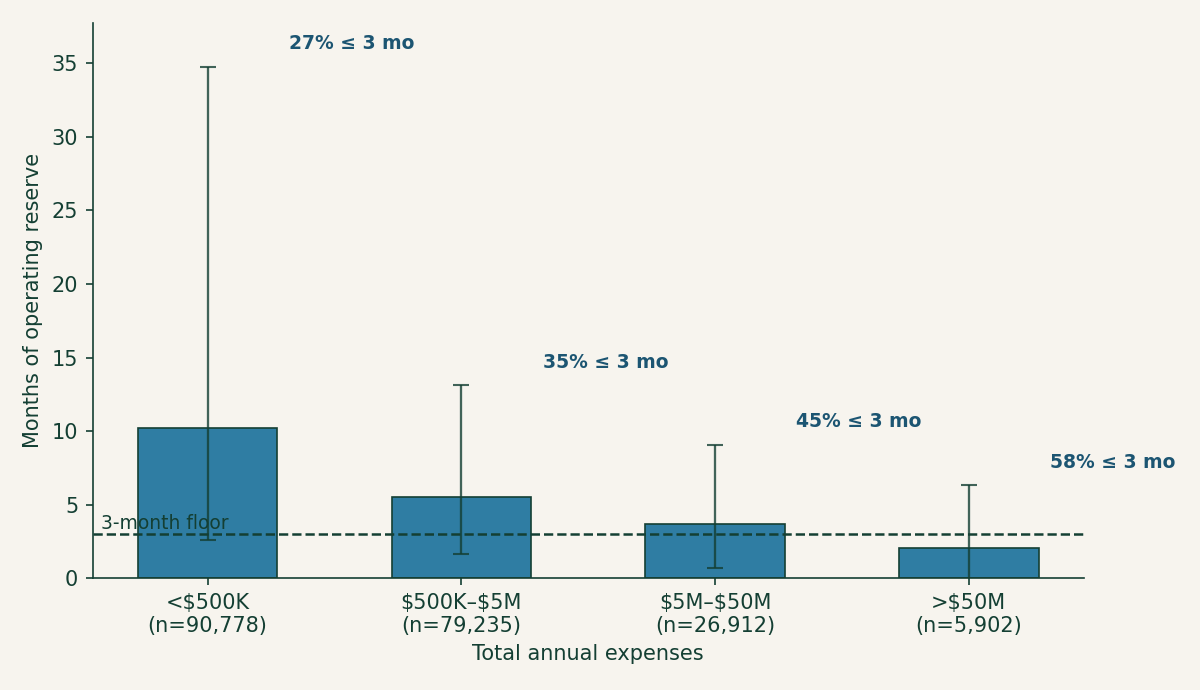
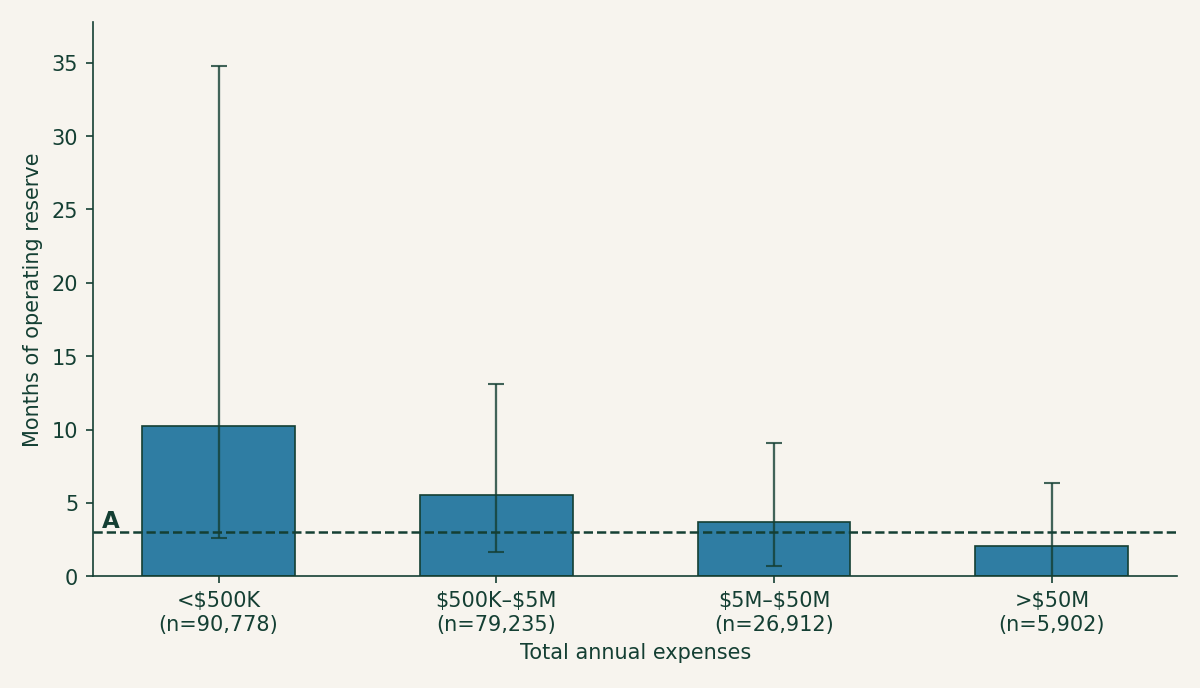
Figures: lettered callouts + marked overflow bins for months-at-scale post (#97)
- Figure 2: replace in-plot sentence annotations with A-D letters; draw the
  clipped tails as detached, lighter overflow bins with <= -6 / > 36 ticks
  instead of silently piling them into the edge bars
- Figure 3: floor line lettered A; per-bar percentage labels moved to caption
- Captions define every letter (ACS style); alt text updated
- figures.py: numpy-only (drop pandas import; csv is 5 numeric columns)
- blog-authoring.md par.5: codify the lettered-callout convention

diff --git a/calcs/months-of-cash-at-scale/figures.py b/calcs/months-of-cash-at-scale/figures.py
@@ -5,12 +5,11 @@ Reads c3_months.csv.gz (written by compute.py) and produces:
   images/2026-07-07-months-of-cash-at-scale-distribution.png  (Figure 2)
   images/2026-07-07-months-of-cash-at-scale-bands.png         (Figure 3)
 
+numpy + matplotlib only (no pandas — the csv is 5 numeric columns).
 Brand palette per notes/blog-authoring.md §5.
 """
 
-import gzip
 import numpy as np
-import pandas as pd
 import matplotlib.pyplot as plt
 import matplotlib as mpl
 
@@ -29,39 +28,42 @@ mpl.rcParams.update({
     "axes.spines.right": False, "savefig.dpi": 150,
 })
 
-df = pd.read_csv("c3_months.csv.gz")
+df = np.genfromtxt("c3_months.csv.gz", delimiter=",", names=True)
+honest = df["honest"]
+totfuncexpns = df["totfuncexpns"]
 
 # ---- Figure 2: distribution of honest months, 501(c)(3) --------------------
+# Lettered callouts only (A-D); the caption in the post explains each letter.
 fig, ax = plt.subplots(figsize=(8, 4.6))
-clipped = df.honest.clip(-6, 36)
-bins = np.arange(-6, 36.5, 1)
-ax.hist(clipped, bins=bins, color=TEAL, edgecolor=PAGE, linewidth=0.4,
-        weights=np.full(len(clipped), 100.0 / len(clipped)))
+LO, HI, GAP = -6, 36, 1.5
+interior = honest[(honest >= LO) & (honest <= HI)]
+bins = np.arange(LO, HI + 1, 1)
+ax.hist(interior, bins=bins, color=TEAL, edgecolor=PAGE, linewidth=0.4,
+        weights=np.full(len(interior), 100.0 / len(honest)))
 
-med = df.honest.median()
-ymax = 17
-ax.set_ylim(0, ymax)
+# Overflow bins (A, D): detached, lighter step of the same hue.
+left_pct = (honest < LO).mean() * 100
+right_pct = (honest > HI).mean() * 100
+for x, pct, letter in [(LO - GAP - 0.5, left_pct, "A"),
+                       (HI + GAP + 0.5, right_pct, "D")]:
+    ax.bar(x, pct, width=1, color=TEAL_LIFT, edgecolor=PAGE, linewidth=0.4)
+    ax.annotate(letter, xy=(x, pct + 0.5), ha="center",
+                fontsize=11, fontweight="bold", color=INK)
+
+med = np.median(honest)
+ax.set_ylim(0, 17)
 ax.axvline(3, color=INK, linestyle="--", linewidth=1.2, ymax=0.62)
 ax.axvline(med, color=TEAL_DEEP, linestyle="-", linewidth=1.4, ymax=0.55)
-ax.annotate("3-month floor (NORI)", xy=(3, 10.8), ha="center",
-            fontsize=9, color=INK)
-ax.annotate(f"median {med:.1f} mo", xy=(med, 9.7), ha="left",
-            xytext=(med + 0.5, 9.7), fontsize=9, color=TEAL_DEEP)
+ax.annotate("B", xy=(3, 10.9), ha="center",
+            fontsize=11, fontweight="bold", color=INK)
+ax.annotate("C", xy=(med, 9.7), ha="center",
+            fontsize=11, fontweight="bold", color=TEAL_DEEP)
 
-share3 = (df.honest <= 3).mean() * 100
-share0 = (df.honest <= 0).mean() * 100
-share36 = (df.honest > 36).mean() * 100
-ax.annotate(f"{share3:.0f}% of 501(c)(3)s sit at or below\n"
-            f"three months ({share0:.0f}% at zero or below)",
-            xy=(12, 13.5), fontsize=10, color=INK)
-ax.annotate(f"all orgs below −6 months\npiled here →", xy=(-6.0, 7.2),
-            fontsize=8, color=INK, alpha=0.75)
-ax.annotate(f"← {share36:.0f}% hold more than\n     36 months, piled here",
-            xy=(24.5, 15.2), fontsize=8, color=INK, alpha=0.75)
-
+ticks = [LO - GAP - 0.5] + list(range(0, HI + 1, 6)) + [HI + GAP + 0.5]
+ax.set_xticks(ticks, ["≤ −6"] + [str(t) for t in range(0, HI + 1, 6)] + ["> 36"])
 ax.set_xlabel("Months of operating reserve (honest, NORI-style)")
 ax.set_ylabel("Share of organizations (%)")
-ax.set_xlim(-6.2, 36.2)
+ax.set_xlim(LO - GAP - 1.2, HI + GAP + 1.2)
 fig.tight_layout()
 fig.savefig("../../images/2026-07-07-months-of-cash-at-scale-distribution.png")
 plt.close(fig)
@@ -71,9 +73,9 @@ bands = [(0, 5e5, "<\\$500K"), (5e5, 5e6, "\\$500K–\\$5M"),
          (5e6, 5e7, "\\$5M–\\$50M"), (5e7, np.inf, ">\\$50M")]
 labels, medians, p25s, p75s, sh3 = [], [], [], [], []
 for lo, hi, name in bands:
-    s = df[(df.totfuncexpns >= lo) & (df.totfuncexpns < hi)].honest
+    s = honest[(totfuncexpns >= lo) & (totfuncexpns < hi)]
     labels.append(f"{name}\n(n={len(s):,})")
-    medians.append(s.median())
+    medians.append(np.median(s))
     p25s.append(np.percentile(s, 25))
     p75s.append(np.percentile(s, 75))
     sh3.append((s <= 3).mean() * 100)
@@ -86,11 +88,10 @@ err_lo = np.array(medians) - np.array(p25s)
 err_hi = np.array(p75s) - np.array(medians)
 ax.errorbar(x, medians, yerr=[err_lo, err_hi], fmt="none", ecolor=INK,
             elinewidth=1.1, capsize=4, alpha=0.8)
+# Lettered callout only (A = the floor line); the caption explains it and
+# carries the per-band <=3mo shares (sh3).
 ax.axhline(3, color=INK, linestyle="--", linewidth=1.2)
-ax.annotate("3-month floor", xy=(-0.42, 3.35), fontsize=9, color=INK)
-for xi, (m, p75, s3) in enumerate(zip(medians, p75s, sh3)):
-    ax.annotate(f"{s3:.0f}% ≤ 3 mo", xy=(xi + 0.32, p75 + 1.2),
-                ha="left", fontsize=9, color=TEAL_DEEP, fontweight="bold")
+ax.annotate("A", xy=(-0.42, 3.35), fontsize=11, fontweight="bold", color=INK)
 
 ax.set_xticks(x, labels)
 ax.set_ylabel("Months of operating reserve")

diff --git a/notes/blog-authoring.md b/notes/blog-authoring.md
@@ -98,6 +98,15 @@ logo used as the Illustrator color source):
 Workflow: open the **gear logo** in Illustrator as the color source, run Text to
 Vector Graphic with the concept prompt, then add uppercase caption text.
 
+**Text inside data figures: lettered callouts only, never sentences.** Mark
+each feature worth explaining with a bold letter (A, B, C…) placed at the
+feature, and define every letter in the numbered caption (§6) — ACS style.
+Axis labels, tick text, and legend entries are the only other text allowed in
+the plot area; values, names, and explanations all go to the caption. If a
+chart clips or piles a heavy tail, mark the overflow bins visually (detached
+bars in the lifted teal, tick labels like "≤ −6" / "> 36"), letter them, and
+let the caption say what they collect.
+
 **Hero = Figure 1 = the social card.** Author Figure 1 at **1200×630 (1.91:1
 landscape)** so the same asset serves as both the in-post hero and the OG/Twitter
 card — no separate variant, no crop. Compose horizontally (e.g. a left-to-right

diff --git a/posts/2026-07-07-months-of-cash-at-scale.md b/posts/2026-07-07-months-of-cash-at-scale.md
@@ -38,10 +38,10 @@ months        = expendable / (cash_expenses / 12.0)
 The median 501(c)(3) holds **6.5 months** of honest operating reserve. That's the comfortable-sounding headline, and it lasts exactly as long as it takes to look at the rest of the distribution (Figure 2). **A third of charities — 33 percent — sit at or below the three-month floor** that the [NORI workgroup](https://www.nonprofitaccountingbasics.org/nonprofit-reserves) treats as the minimum prudent reserve. One in five is at or below a single month. And **14 percent are at or below zero**: their buildings and equipment exceed their entire unrestricted equity, so in expendable terms they are underwater — operating, meeting payroll, delivering programs, with less than nothing in the tank.
 
 <figure>
-  <img src="/images/2026-07-07-months-of-cash-at-scale-distribution.png" alt="Histogram of months of operating reserve across 202,827 charities: a large spike just above zero, a third of organizations at or below three months, a median of 6.5 months, and a long right tail with 15 percent of organizations holding more than three years.">
+  <img src="/images/2026-07-07-months-of-cash-at-scale-distribution.png" alt="Histogram of months of operating reserve across 202,827 charities: a large spike just above zero, a median of 6.5 months, a long right tail, and two detached overflow bars collecting the organizations below minus six months and above thirty-six.">
 </figure>
 
-**Figure 2.** The runway of every 501(c)(3) that filed a full Form 990 in calendar 2024. The mass piled just above zero is the sector's hand-to-mouth majority; the far-right pile is the 15 percent holding more than three years.
+**Figure 2.** The runway of every 501(c)(3) that filed a full Form 990 in calendar 2024, in one-month bins. A and D are detached overflow bins collecting everything beyond the axis: A holds the 5 percent of charities more than six months underwater, D the 15 percent with more than three years. B marks the NORI three-month floor — a third of the sector sits at or below it — and C the median of 6.5 months. The mass piled just above zero is the sector's hand-to-mouth majority.
 
 The other end of the distribution is just as instructive: 20 percent of charities hold **more than two years** of reserve, and 15 percent more than three. The last post's advice cuts both ways — near zero, ask whether you're funding a program or a rescue; past a couple of years, ask whether that's a policy-backed quasi-endowment or money idling while the mission waits. Both extremes are common enough that a donor will meet them regularly, which is Table 1's point: the thresholds worth checking, honest versus naive.
 
@@ -68,7 +68,7 @@ The other survey is the one the census overturns. BDO's benchmarking found [62 p
   <img src="/images/2026-07-07-months-of-cash-at-scale-bands.png" alt="Bar chart of median months of operating reserve by organization size: 10.2 months for charities under 500 thousand dollars in expenses, falling monotonically to 2.0 months for organizations above 50 million, where 58 percent sit at or below the three-month floor.">
 </figure>
 
-**Figure 3.** The barbell, inverted: median honest reserve by expense band (whiskers span the 25th–75th percentiles). The smallest filers hold the most runway; the largest organizations run the thinnest.
+**Figure 3.** The barbell, inverted: median honest reserve by expense band (whiskers span the 25th–75th percentiles). A marks the NORI three-month floor; the share of each band at or below it rises monotonically left to right — 27, 35, 45, and 58 percent. The smallest filers hold the most runway; the largest organizations run the thinnest.
 
 Part of the inversion is mechanical, and worth being honest about. Large institutions finance buildings with tax-exempt bonds (Part X line 20), which the NORI recipe doesn't add back the way it adds back mortgages; crediting the bond debt lifts the giants' median from 2.0 to 3.1 months — thicker, still thinnest of any band. The rest is real: a hospital's endowment is mostly donor-restricted and its balance sheet is mostly plant, so its *expendable* cushion is genuinely slim relative to an enormous monthly burn, even when its total net assets are vast. And the smallest band carries a survivorship asterisk — a sub-$500K org that clears the full-990 filing bar and keeps filing is already a survivor, and nearly half of them (46 percent) hold more than a year of runway. The lesson isn't that big nonprofits are about to fail — they have credit lines and reliable revenue the small ones don't. It's that **no sector average, and no survey of somebody else's population, tells you anything about your charity.** The distribution is too wide and too structured for the average to mean much.
 